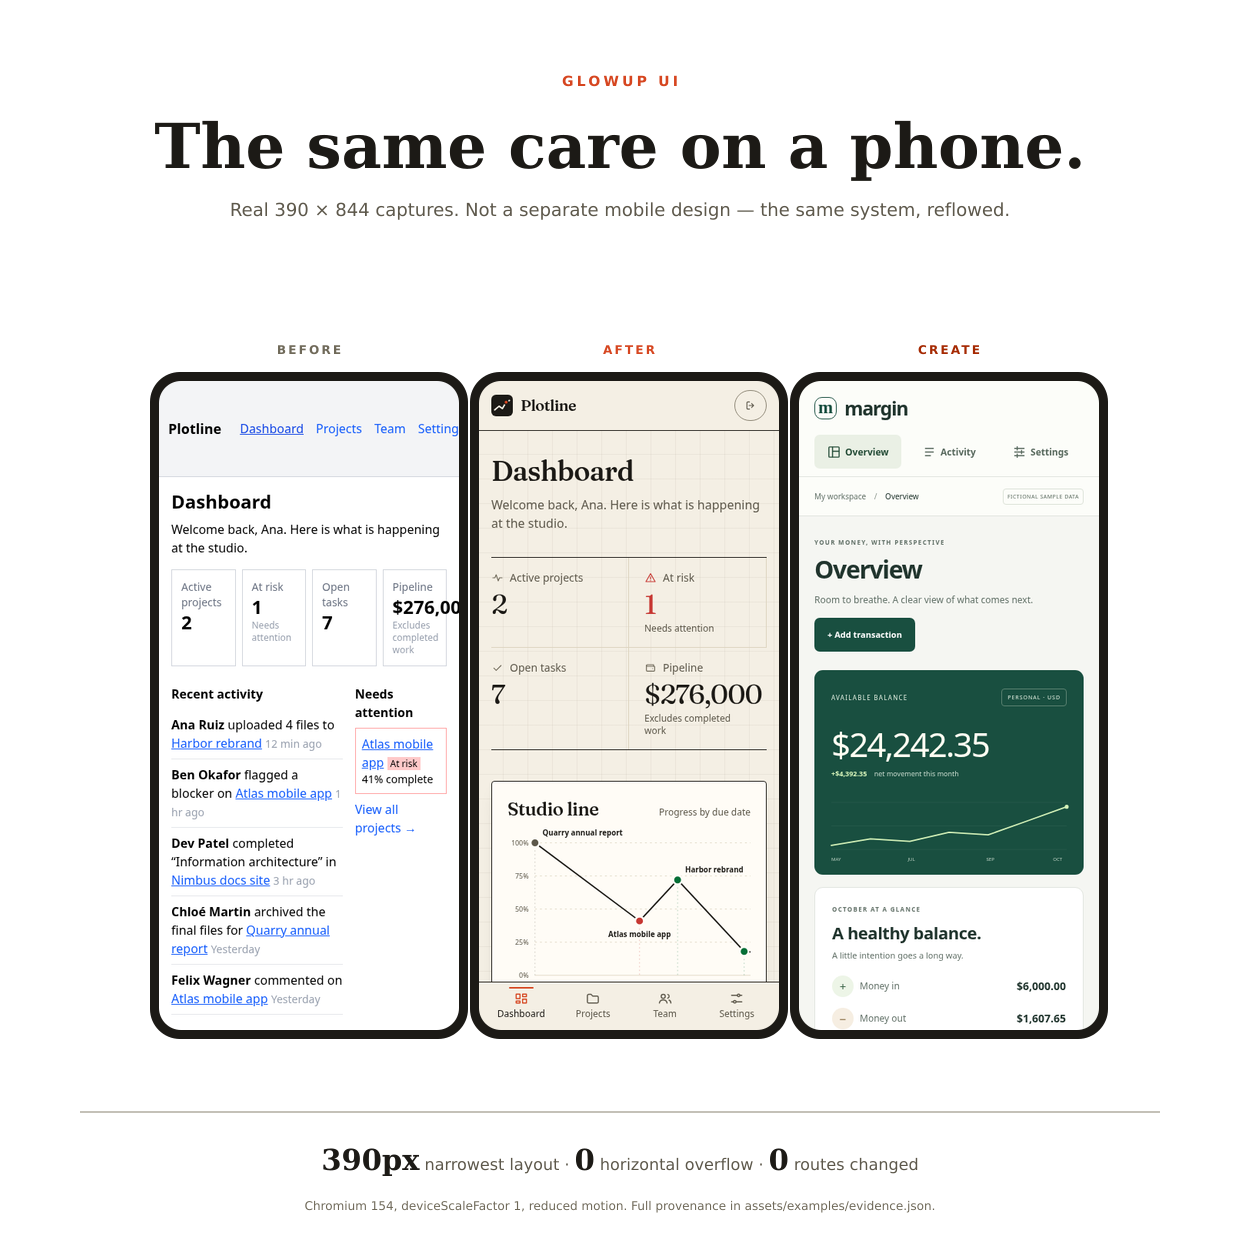
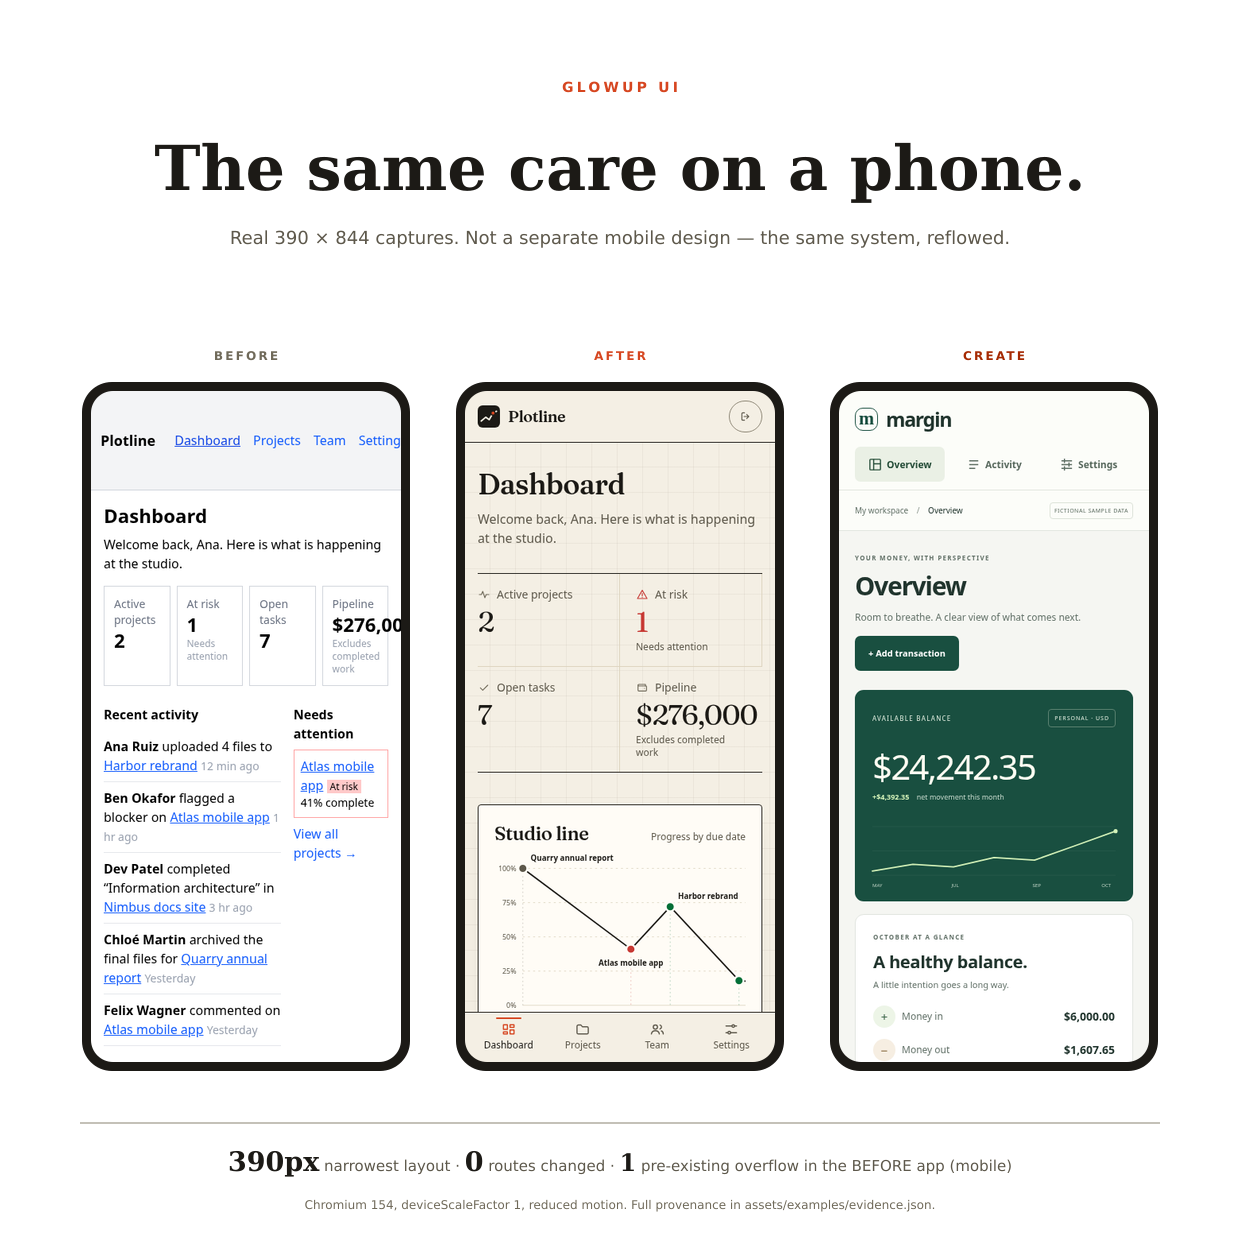
fix: the phone board printed a number its own evidence contradicted
The board said '0 horizontal overflow' as a literal while evidence.json has always recorded a
pre-existing mobile overflow in the BEFORE fixture -- the exact panel shown on that board. A
reassuring figure printed directly above a screenshot that disproves it is the failure mode this
project keeps having to correct, so the count is now derived from baselineFindings and reads
'1 pre-existing overflow in the BEFORE app (mobile)'.

Two layout defects on the same board:
- the devices were placed at hand-tuned x offsets that pushed the outer two past the canvas edge,
  so they rendered clipped. Row width, positions and canvas height are now computed from the
  phone widths with an assertion that the row fits.
- spacing left dead air under the subtitle and dropped the provenance line off the bottom.

Both are now covered by tests that fail when the false claim or the hardcoded coordinates come
back; verified by reintroducing each defect and watching the matching test go red.

The eight example captures were also re-shot from real Chromium 153 in this environment and are
visually equivalent to the committed ones -- different only in font rasterisation, since this box
has DejaVu/Liberation and not the macOS stack that produced the originals. Replacing them would
churn every hash for no visible gain, so they are unchanged.

202/202 tests.

Changed region(s): [[0.0613, 0.2765, 0.95, 0.983], [0.1226, 0.0614, 0.8887, 0.215], [0.7968, 0.3686, 0.8274, 0.3994]]

diff --git a/docs/REGENERATE-ASSETS.md b/docs/REGENERATE-ASSETS.md
@@ -31,10 +31,10 @@ Run from `benchmarks/`:
 node showcase.mjs --install
 ```
 
-> **If you use a Git Bash / MSYS shell on Windows, do not pass `--install` here.**
-> `sh()` forwards `--install` to `npm ci`, which needs `shell: true` on Windows; MSYS then rewrites
-> the `/…`-style paths and the install dies mid-way. Instead install the demo dependencies by hand
-> once, then run the capture without the flag:
+> **Give `--install` several minutes and expect no output while it works.**
+> It runs three `npm ci` calls back to back with nothing printed between them, which looks
+> exactly like a hang. If you do interrupt it (or your terminal does), finish the installs by
+> hand and capture without the flag:
 >
 > ```bash
 > (cd ../demo/before && npm ci --no-audit --no-fund)
@@ -43,7 +43,8 @@ node showcase.mjs --install
 > node showcase.mjs
 > ```
 >
-> In PowerShell the flag is fine.
+> Because a failed or interrupted run now writes nothing into `assets/examples/`, stopping it
+> half-way costs you nothing but time.
 
 `--install` runs each demo's locked `npm ci`; without it the script refuses to run and tells you
 dependencies are missing. It then launches one Chromium, checks the behaviour contracts, and
